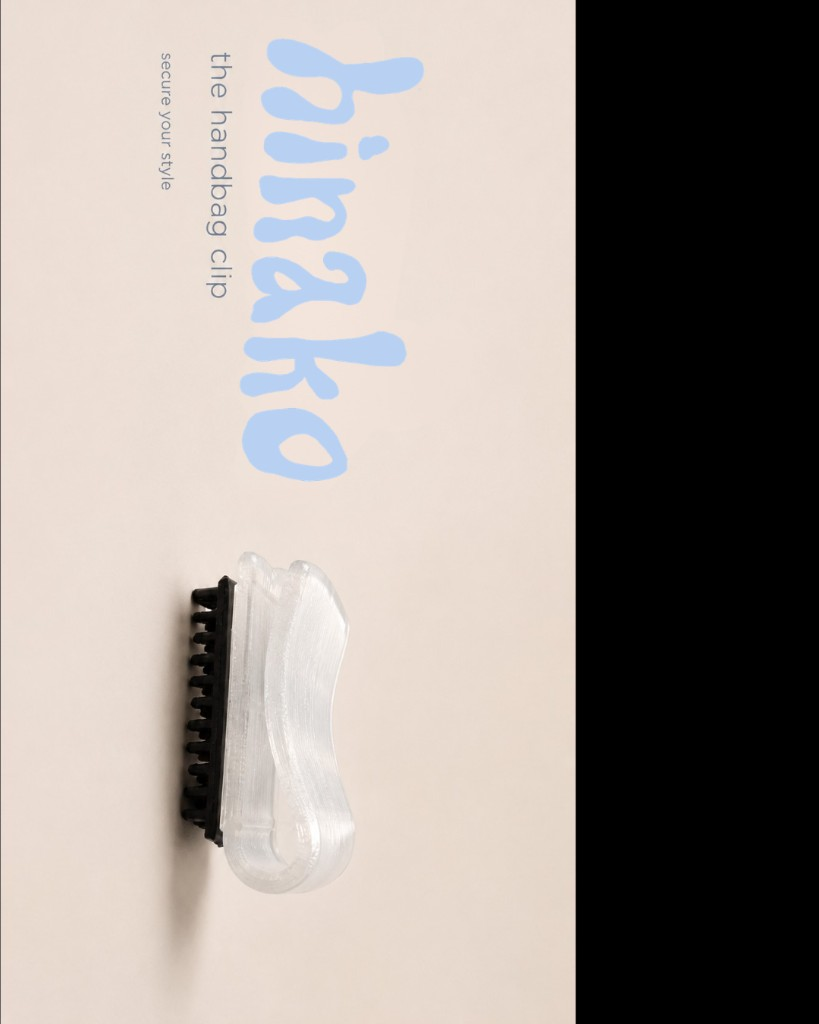
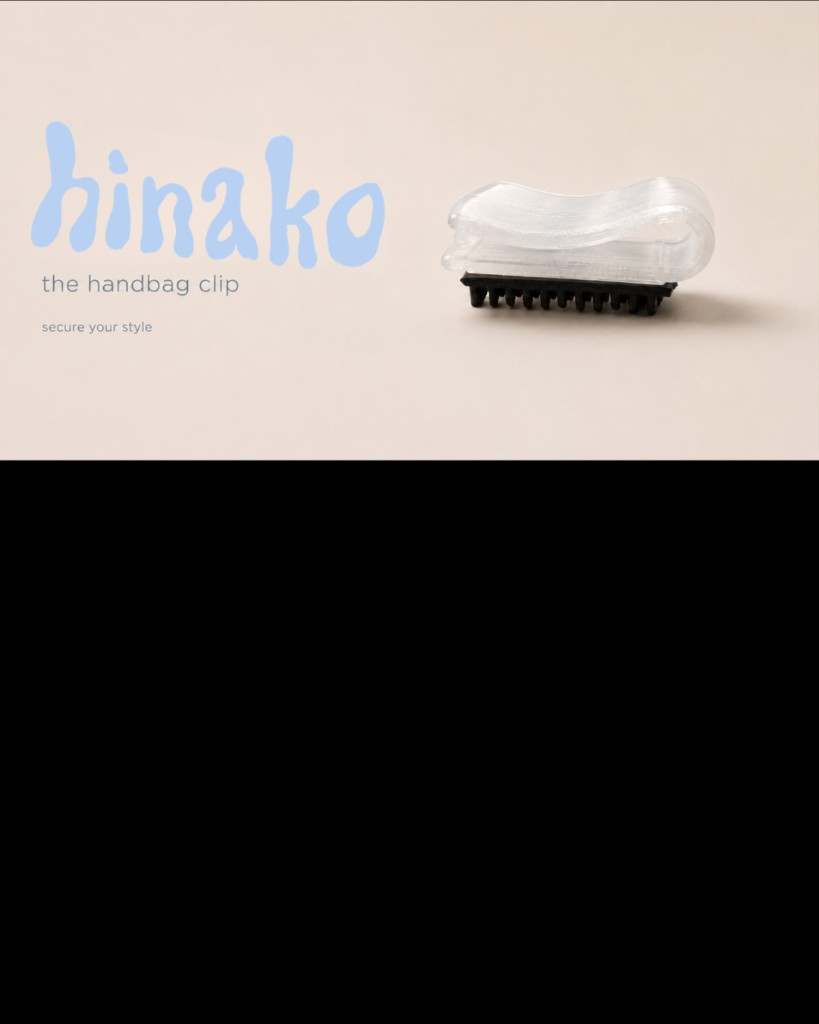
Update waitlist product art to cream/black two-tone promo

diff --git a/src/sections/Waitlist.tsx b/src/sections/Waitlist.tsx
@@ -38,11 +38,11 @@ export function Waitlist() {
             transition={{ duration: 1, ease, delay: 0.05 }}
             className="mx-auto w-full max-w-md lg:mx-0 lg:max-w-lg"
           >
-            <div className="overflow-hidden rounded-2xl border border-mist bg-[#f5f1e8] p-4 shadow-[0_24px_60px_-24px_rgba(26,39,68,0.2)] sm:p-5">
+            <div className="overflow-hidden rounded-2xl border border-mist bg-ink shadow-[0_24px_60px_-24px_rgba(26,39,68,0.2)]">
               <img
                 src={images.product}
-                alt="Hinako the handbag clip — secure your style. Translucent clip with grip detail on a cream background."
-                className="mx-auto max-h-[min(62vh,560px)] w-auto max-w-full object-contain"
+                alt="Hinako the handbag clip — secure your style. Promotional graphic with the clip on cream and Hinako wordmark."
+                className="mx-auto max-h-[min(65vh,580px)] w-auto max-w-full object-contain"
                 fetchPriority="high"
                 width={819}
                 height={1024}

diff --git a/src/assets/images.ts b/src/assets/images.ts
@@ -8,7 +8,7 @@
 export const images = {
   /** Hand-drawn “hinako” bubble wordmark (RGBA, transparent) */
   wordmark: "/images/wordmark.png",
-  /** First Hinako clip — vertical promo (wordmark + product) */
+  /** First Hinako clip — promo graphic (cream + product + black field) */
   product: "/images/product.jpg",
   hero: "/images/hero.jpg",
 
